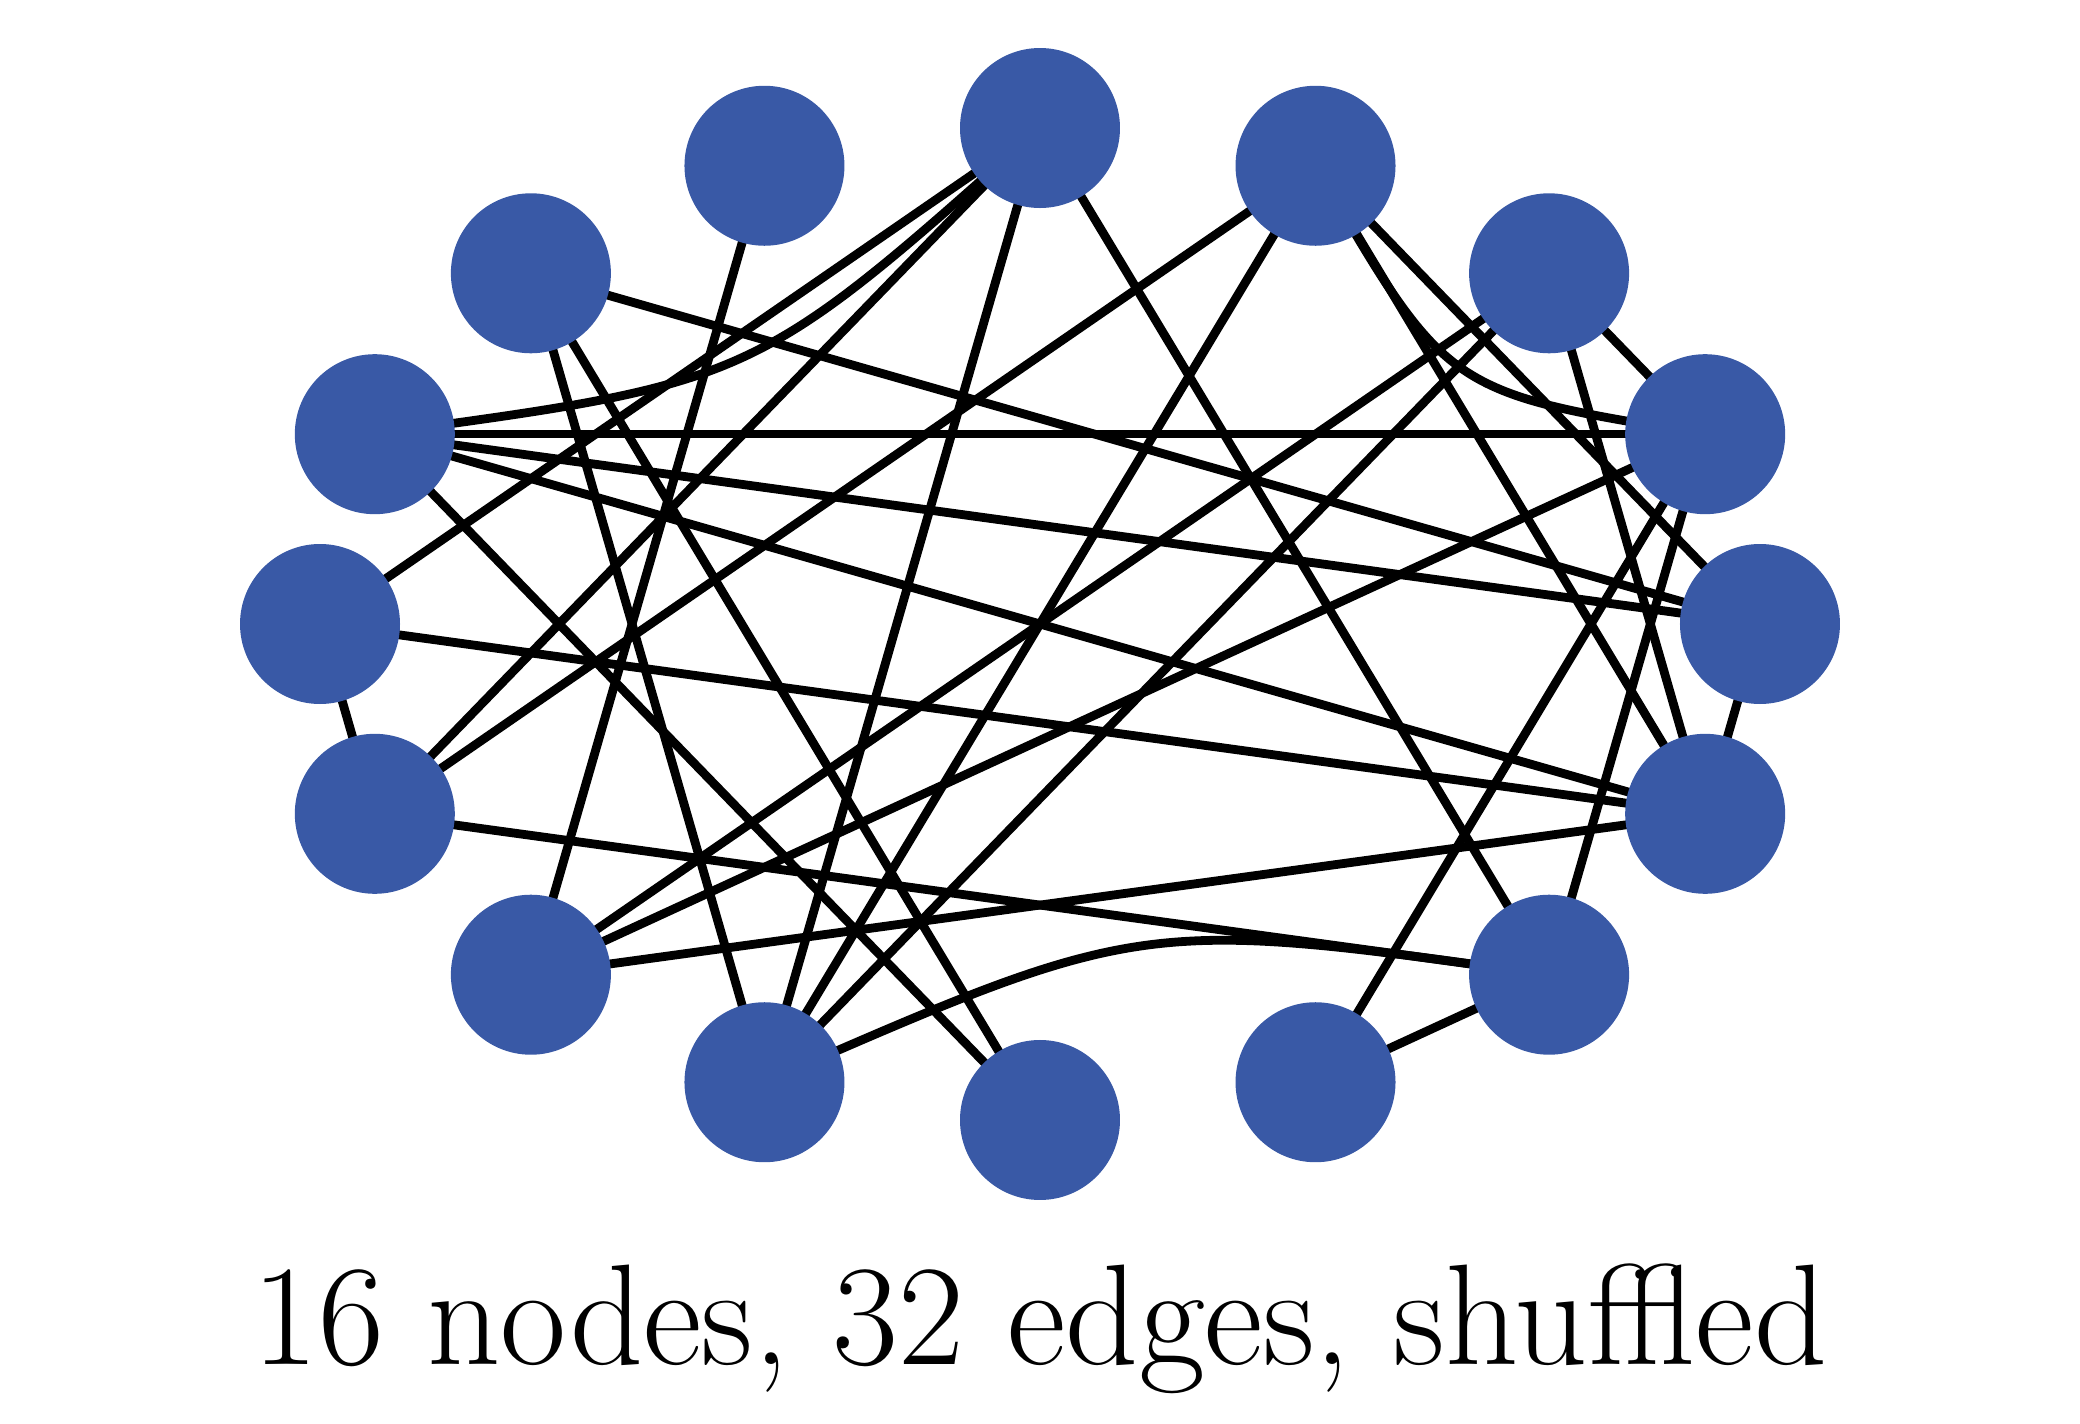
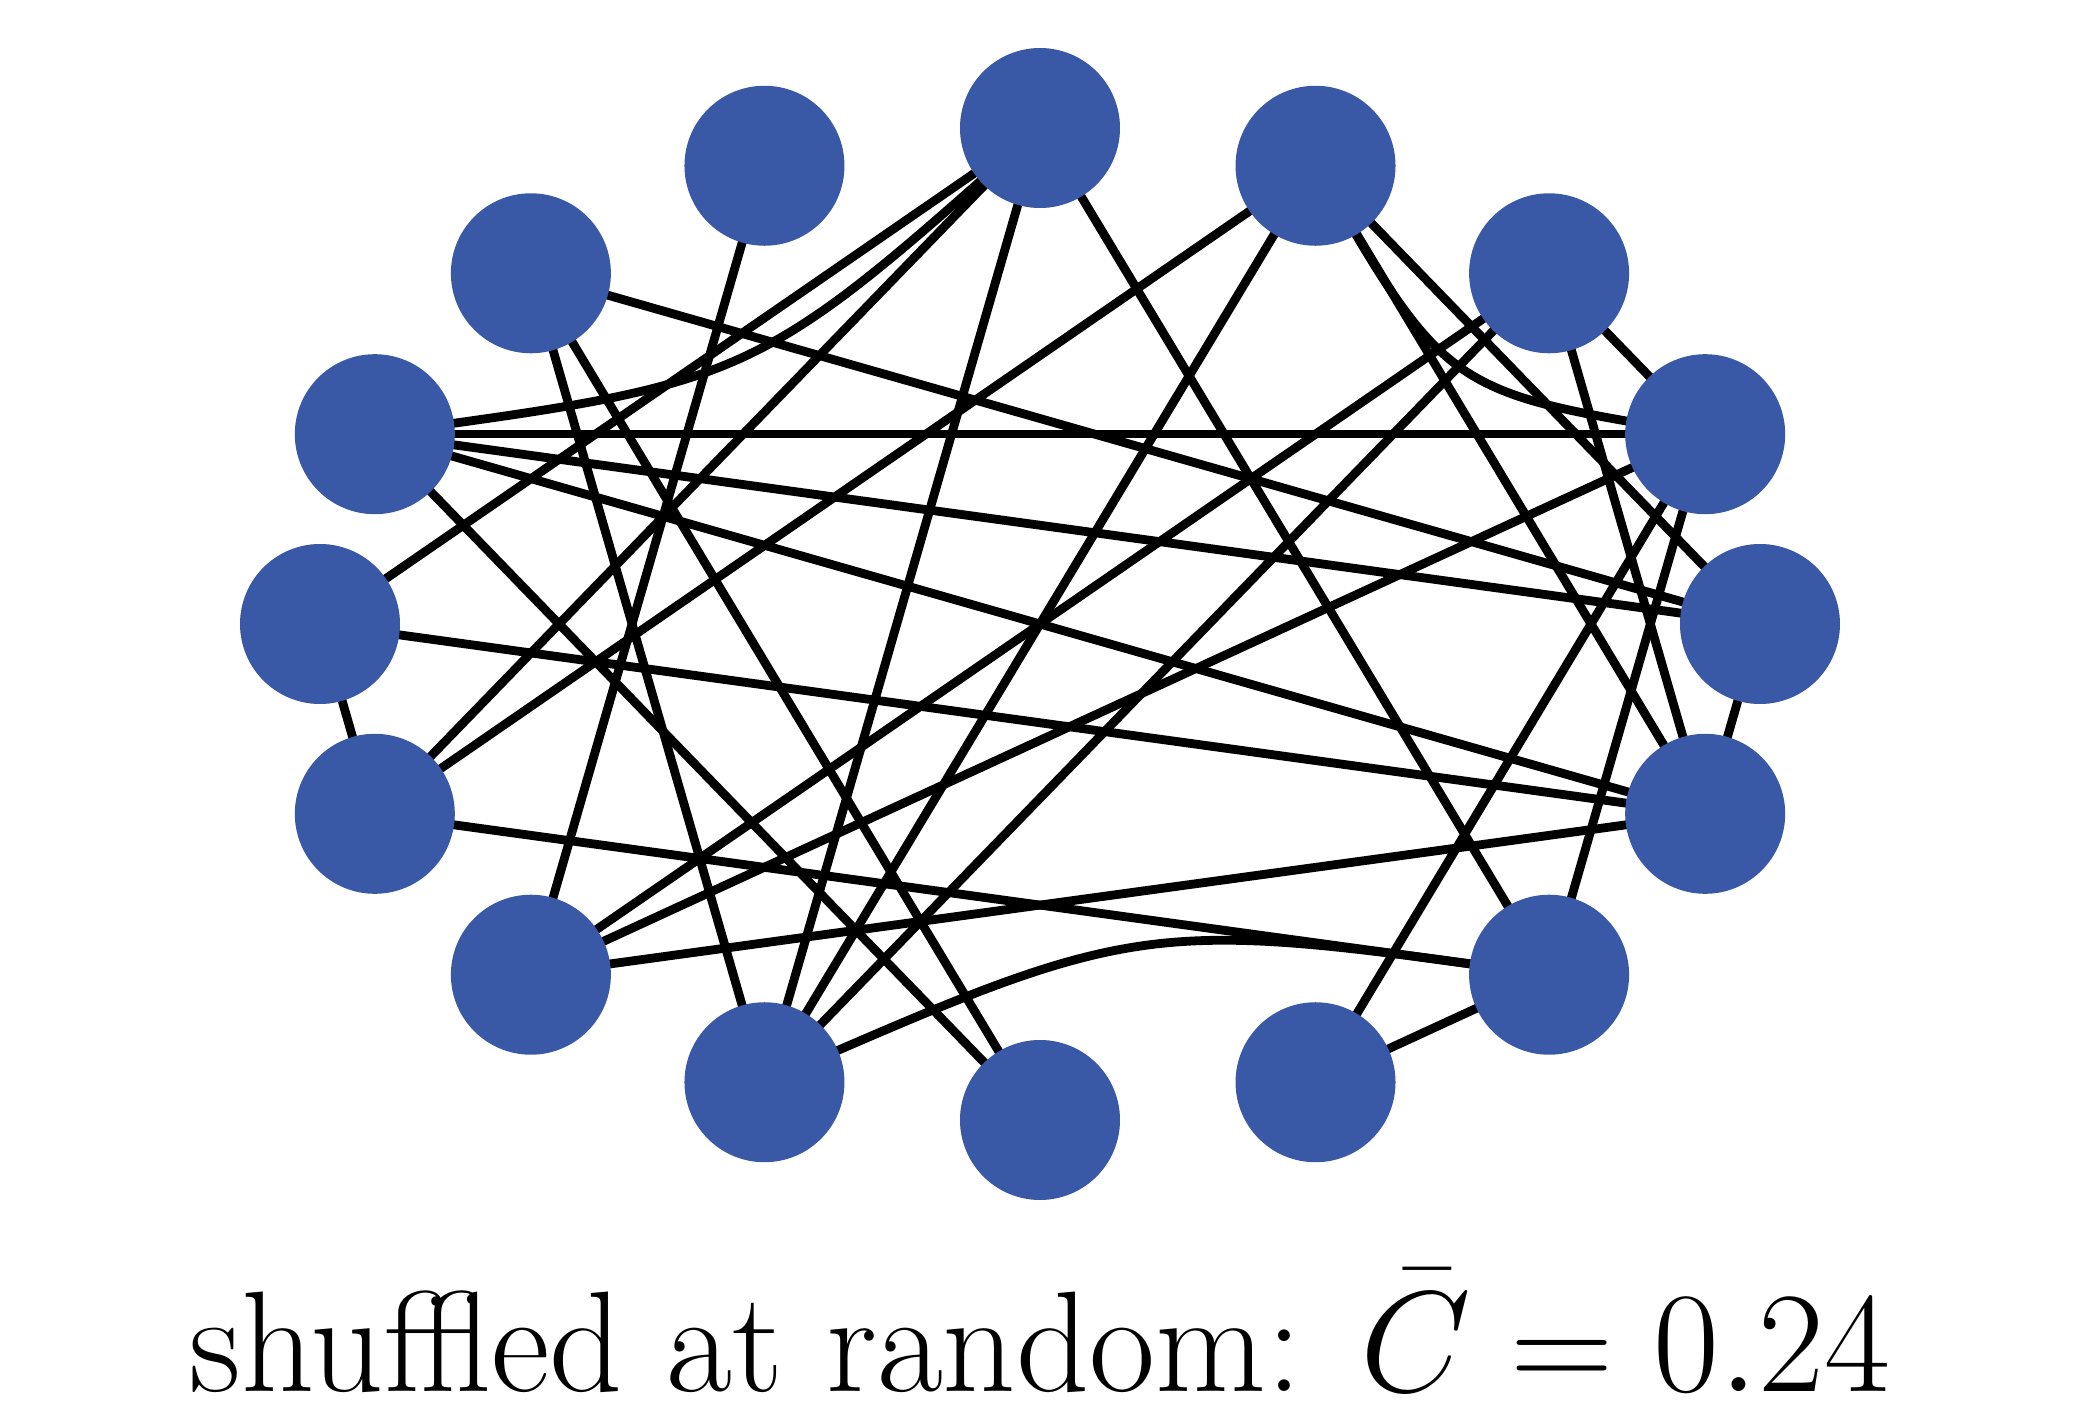
m02 figures: the random graph is a typical draw, and it prints its own number
G(16,32) has p = 32/120 = 0.267, so a draw carries about ten triangles and over 3000
samples not one came out triangle-free. Both the old seed 2 (three triangles) and the
triangle-free seed that briefly replaced it sit at the 0th percentile. Either on a slide
labelled "a random graph" teaches something false about the model, and contradicts the
C_rand = <k>/(n-1) the deck derives two parts earlier, which predicts 0.267 at this size.

Seed 275 sits at the median: C = 0.244, 8 triangles, L = 2.03. The assertion is now
`RND16_TRI > 0 and 0.15 < RND16_C < 0.40`, so the build fails if anyone cherry-picks
again, and both figures print the measured value rather than claiming an absence:
0.50 against 0.24, which is what is true at the size drawn.

Claude-Session: https://claude.ai/code/session_01UDgzCbqaqm3XcUsdnKFffF

Changed region(s): [[0.4062, 0.8652, 0.9062, 0.9888], [0.0938, 0.8961, 0.375, 0.9888]]

diff --git a/docs/slide/new/m02/figures/make_figures.py b/docs/slide/new/m02/figures/make_figures.py
@@ -1435,32 +1435,20 @@ def fig_ring_distance():
     return s
 
 
-# A TYPICAL draw, not a flattering one.  At n = 16 a random graph's expected clustering is
-# p = 32/120 = 0.267, so both the old seed 2 (three triangles, C = 0.054) and the
-# triangle-free seed that replaced it (8 exist in the first 400,000) sit at the 0th
-# percentile of the connected draws.  Picking either to make "random graphs have no
-# triangles" look true at n = 16 is choosing the evidence.  Seed 275 sits at the median,
-# and the figure prints the number it actually has.
+# A TYPICAL draw, not a flattering one.  G(16,32) has p = 32/120 = 0.267, so E[C_i] = 0.267
+# and a draw carries about ten triangles; over 3000 samples not one came out triangle-free.
+# Both the old seed 2 (three triangles, C = 0.054) and the triangle-free seed that briefly
+# replaced it sit at the 0th percentile.  Putting either on a slide labelled "a random
+# graph" would teach something false about the model, and would contradict the
+# C_rand = <k>/(n-1) the deck derives two parts earlier -- which predicts 0.267 at this
+# size.  Seed 275 sits at the median; the figures print the number it actually has.
 RND16 = nx.gnm_random_graph(RING_N, len(RING_EDGES), seed=275)
 assert nx.is_connected(RND16)
+RND16_TRI = sum(nx.triangles(RND16).values()) // 3
 RND16_C = nx.average_clustering(RND16)
 RND16_L = nx.average_shortest_path_length(RND16)
+assert RND16_TRI > 0 and 0.15 < RND16_C < 0.40, (RND16_TRI, RND16_C)
 assert RND16_L < float(RING_L), (RND16_L, float(RING_L))
-
-
-def _typical_clustering(n, m, trials=300):
-    """The clustering of a G(n,m) draw, sampled -- so the chosen seed cannot drift back
-    into being a flattering one without the build noticing."""
-    cs = sorted(nx.average_clustering(g) for g in
-                (nx.gnm_random_graph(n, m, seed=s) for s in range(trials))
-                if nx.is_connected(g))
-    return cs[len(cs) // 4], cs[3 * len(cs) // 4]
-
-
-_Q1, _Q3 = _typical_clustering(RING_N, len(RING_EDGES))
-assert _Q1 <= RND16_C <= _Q3, (
-    f"the shuffled graph has C = {RND16_C:.3f}, outside the middle half of the draws "
-    f"[{_Q1:.3f}, {_Q3:.3f}] -- pick a typical seed, not a flattering one")
 
 
 def fig_random_graph():
@@ -1469,7 +1457,7 @@ def fig_random_graph():
         s += curve_edge(a, b, RING_POS, centroid=RING_C, w=2.2)
     for i2 in RING_POS:
         s += disc(RING_POS[i2][0], RING_POS[i2][1], "", fill="accent")
-    s += text(260, 8, f"{RING_N} nodes, {len(RING_EDGES)} edges, shuffled",
+    s += text(260, 8, f"shuffled at random: $\\bar C = {RND16_C:.2f}$",
               color="black", anchor="south")
     return s
 
